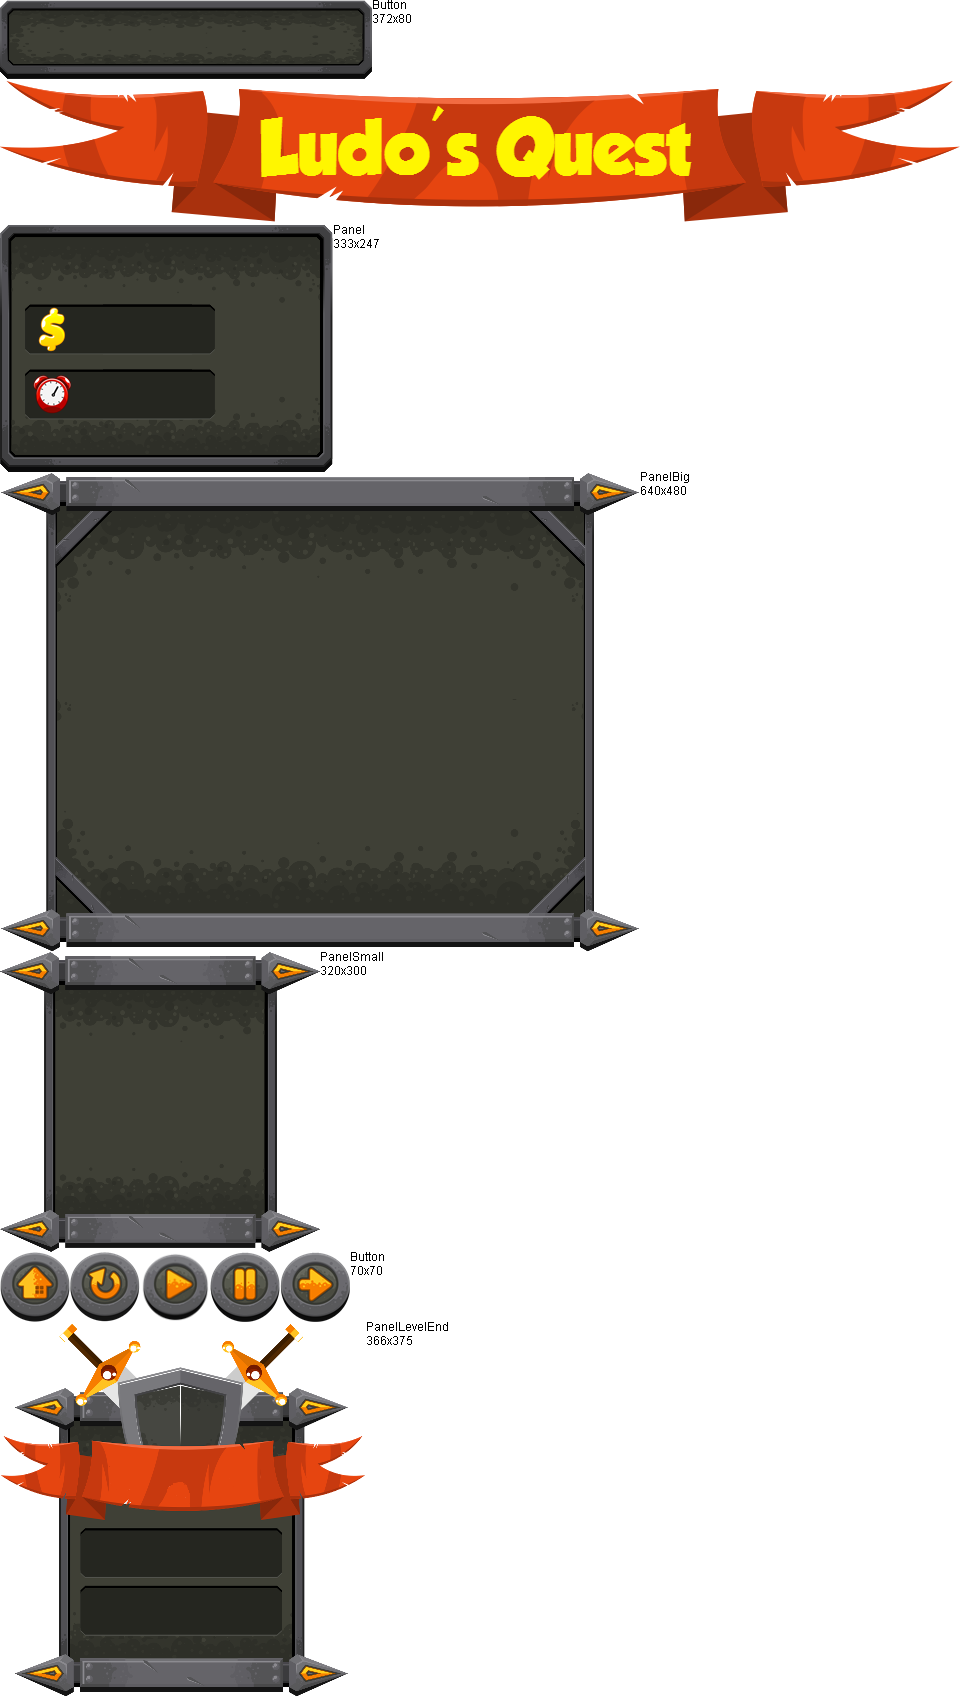
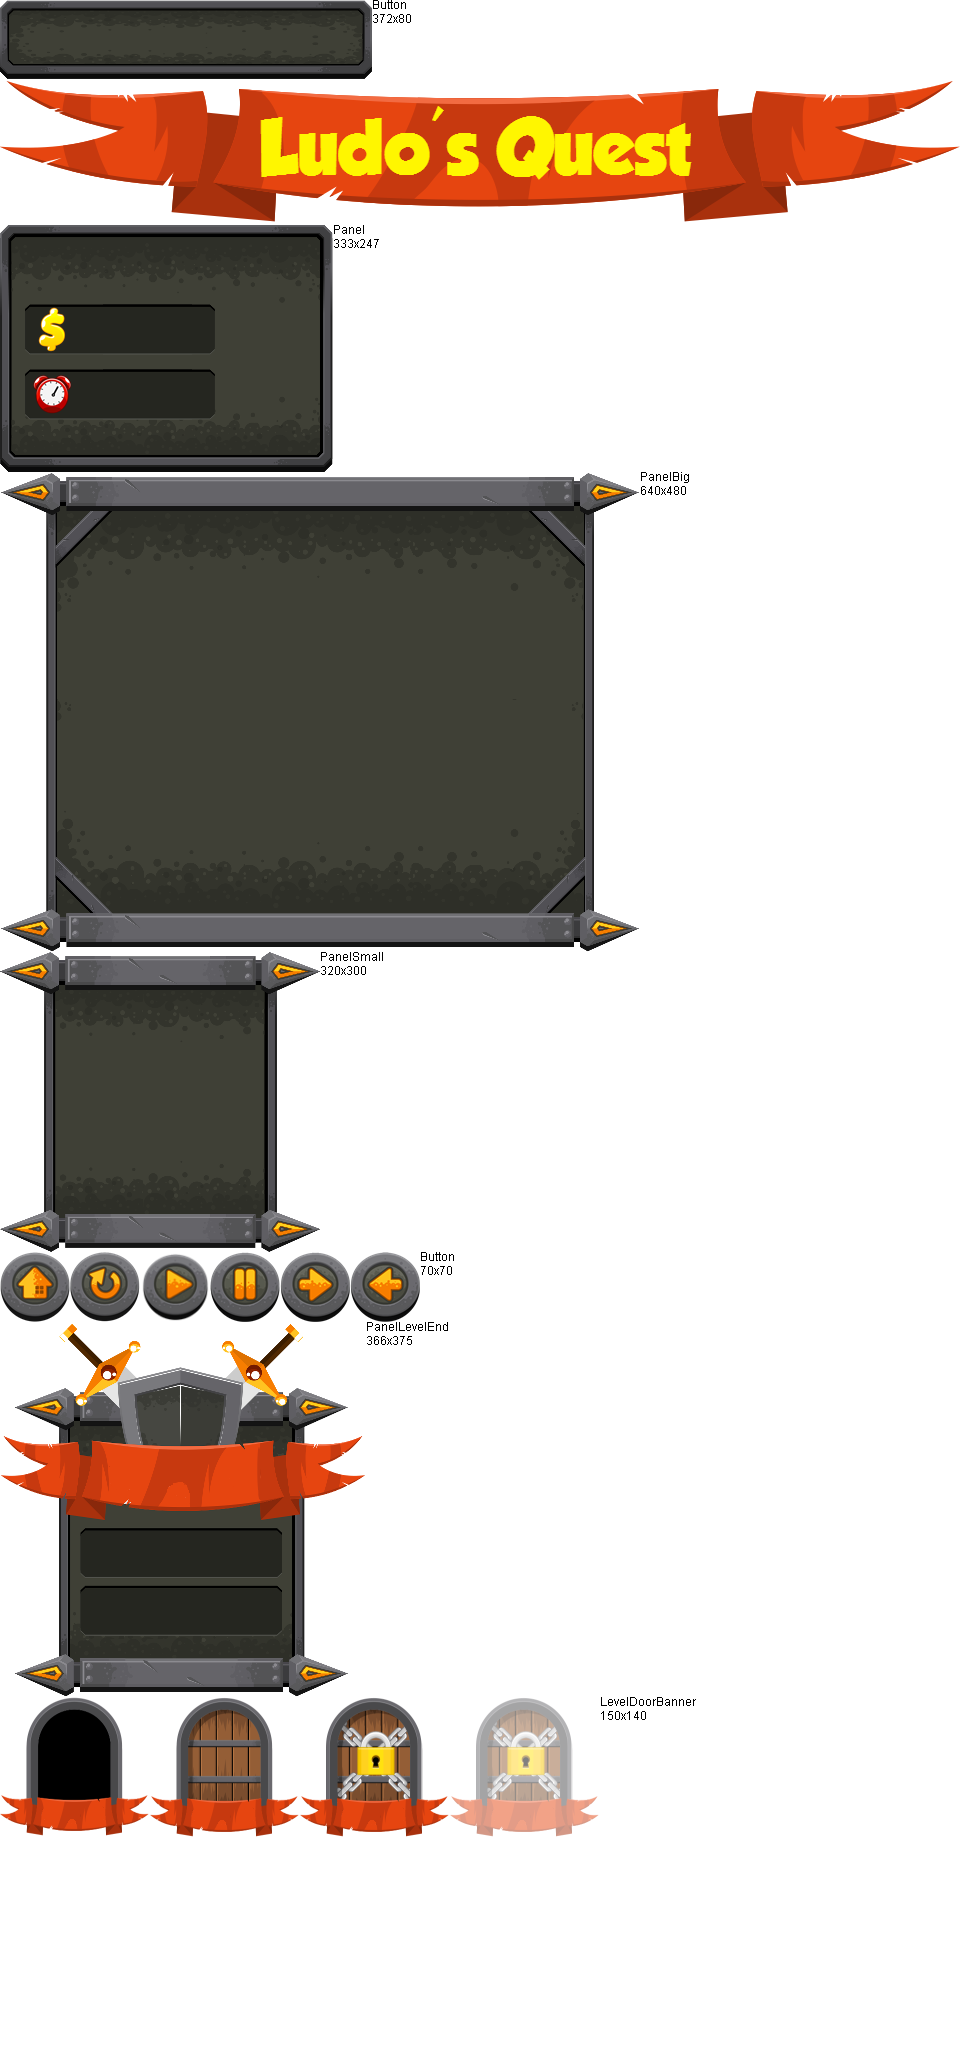
Working on level screen and choosing levels. Need to leverage Backbone.Collection more...

Changed region(s): [[0.0, 0.4053, 0.6562, 0.9976], [0.0, 0.0, 1.0, 0.3429], [0.625, 0.8106, 0.6562, 0.8418]]

diff --git a/www/js/src/gui/title-screen.js b/www/js/src/gui/title-screen.js
@@ -108,25 +108,31 @@
       });
 
       this.loading = new Backbone.LabelButton({
+        y: 720,
         text: "Loading...",
-        easingTime: 300,
-        opacity: 0
+        easingTime: 300
       });
 
       this.newGame = new Backbone.PullOutButton({
-        y: 300,
+        y: 260,
         text: "New Game "
       });
-      this.newGame.on("tap", _.partial(this.play, "newGame"), this);
+      this.newGame.on("tap", _.partial(this.action, "newGame"), this);
 
       this.continueGame = new Backbone.PullOutButton({
-        y: 420,
+        y: 380,
         text: "Continue "
       });
-      this.continueGame.on("tap", _.partial(this.play, "continueGame"), this);
+      this.continueGame.on("tap", _.partial(this.action, "continueGame"), this);
+
+      this.levelButton = new Backbone.PullOutButton({
+        y: 500,
+        text: "Levels "
+      });
+      this.levelButton.on("tap", _.partial(this.action, "showLevelScreen"), this);
 
       this.showCredits = new Backbone.PullOutButton({
-        y: 540,
+        y: 620,
         text: "Credits "
       });
 
@@ -143,15 +149,17 @@
       // Hack to avoid FOUT
       this.touchStart.set("opacity", 1);
       this.newGame.textMetrics = undefined;
-      this.showCredits.textMetrics = undefined;
       this.continueGame.textMetrics = undefined;
+      this.levelButton.textMetrics = undefined;
+      this.showCredits.textMetrics = undefined;
     },
     onAttach: function() {
       Backbone.Scene.prototype.onAttach.apply(this, arguments);
       this.stopListening(this.engine);
       this.set("opacity", 1);
+      this.loading.set("x", 720);
 
-      this.engine.add([this.banner, this.touchStart, this.loading, this.newGame, this.showCredits, this.credits, this.continueGame, this.savedGame]);
+      this.engine.add([this.banner, this.touchStart, this.loading, this.newGame, this.levelButton, this.showCredits, this.credits, this.continueGame, this.savedGame]);
 
       if (!this.ready)
         setTimeout(this.postInitialize.bind(this), 200);
@@ -160,7 +168,7 @@
     },
     onDetach: function() {
       Backbone.Scene.prototype.onDetach.apply(this, arguments);
-      this.engine.remove([this.banner, this.touchStart, this.loading, this.newGame, this.showCredits, this.credits, this.savedGame, this.continueGame]);
+      this.engine.remove([this.banner, this.touchStart, this.loading, this.newGame, this.levelButton, this.showCredits, this.credits, this.savedGame, this.continueGame]);
     },
     onTouchStart: function(e) {
       // Animate some stuff
@@ -172,15 +180,16 @@
     },
     showButtons: function() {
       this.newGame.moveTo(-this.newGame.get("width") + this.newGame.textMetrics.width + this.newGame.get("textPadding")*2, this.newGame.get("y"));
+      this.levelButton.moveTo(-this.levelButton.get("width") + this.levelButton.textMetrics.width + this.levelButton.get("textPadding")*2, this.levelButton.get("y"));
       this.showCredits.moveTo(-this.showCredits.get("width") + this.showCredits.textMetrics.width + this.showCredits.get("textPadding")*2, this.showCredits.get("y"));
       if (!_.isEmpty(this.saved)) {
         this.continueGame.moveTo(-this.continueGame.get("width") + this.continueGame.textMetrics.width + this.continueGame.get("textPadding")*2, this.continueGame.get("y"));
         this.savedGame.moveTo(720, this.savedGame.get("y"));
       }
-      this.loading.set("opacity", 0);
     },
     hideButtons: function() {
       this.newGame.moveTo(-this.newGame.get("width"), this.newGame.get("y"));
+      this.levelButton.moveTo(-this.levelButton.get("width"), this.levelButton.get("y"));
       this.showCredits.moveTo(-this.showCredits.get("width"), this.showCredits.get("y"));
       this.continueGame.moveTo(-this.continueGame.get("width"), this.continueGame.get("y"));
       this.savedGame.moveTo(960, this.savedGame.get("y"));
@@ -197,19 +206,35 @@
       this.panel = undefined;
       this.showButtons();
     },
-    play: function(event) {
-      var delay = 400;
-      if (event == "newGame") {
-        this.loading.fadeIn();
-        delay = 600;
-      }
+    update: function(dt) {
+      if (!Backbone.Scene.prototype.update.apply(this, arguments)) return false;
+
+      var attrs = {opacity: this.get("opacity")},
+          options = {silent: true};
+
+      this.banner.set(attrs, options);
+      this.touchStart.set(attrs, options);
+      this.loading.set(attrs, options);
+      this.newGame.set(attrs, options);
+      this.continueGame.set(attrs, options);
+      this.showCredits.set(attrs, options);
+      this.credits.set(attrs, options);
+      this.levelButton.set(attrs, options);
+      this.savedGame.set(attrs, options);
+
+      return true;
+    },
+    action: function(event) {
+      if (event == "newGame")
+        this.loading.set("x", 400);
 
       var gui = this;
       this.hideButtons();
       setTimeout(function() {
-        gui.engine.trigger(event);
-        gui.loading.set("opacity", 0);
-      }, delay);
+        gui.fadeOut(function() {
+          gui.engine.trigger(event);
+        });
+      }, 400);
     }
 	});
 

diff --git a/www/js/src/gui/level-screen.js b/www/js/src/gui/level-screen.js
@@ -1,0 +1,134 @@
+(function() {
+
+  Backbone.LevelViewModel = Backbone.Button.extend({
+    defaults: _.extend({}, Backbone.Button.prototype.defaults, {
+      level: 1,
+      name: "",
+      state: "locked", // locked, unlocked, played, future
+      width: 150, height: 140,
+      backgroundColor: "transparent",
+      img: "#gui", imgX: 0, imgY: 1696, imgWidth: 150, imgHeight: 140, imgMargin: 0
+    }),
+    initialize: function(attributes, options) {
+      Backbone.Button.prototype.initialize.apply(this, arguments);
+      this.imgForState();
+      this.on("change:state", this.imgForState);
+    },
+    imgForState: function() {
+      var imgX = this.attributes.imgX;
+      switch (this.attributes.state) {
+        case "locked":
+          imgX = 300;
+          break;
+        case "unlocked":
+          imgX = 150;
+          break;
+        case "future":
+          imgX = 450;
+          break;
+        default:
+          imgX = 0;
+          break;
+      }
+      this.set("imgX", imgX);
+      return this;
+    }
+  });
+
+  Backbone.LevelViewCollection = Backbone.Collection.extend({
+    model: Backbone.LevelViewModel
+  });
+
+  Backbone.LevelScreenGui = Backbone.Scene.extend({
+    defaults: _.extend({}, Backbone.Scene.prototype.defaults, {
+      img: "#level-screen",
+      imgWidth: 960,
+      imgHeight: 700
+    }),
+    initialize: function(attributes, options) {
+      Backbone.Scene.prototype.initialize.apply(this, arguments);
+
+      _.bindAll(this, "_calculateState");
+
+      this.backButton = new Backbone.Button({
+        x: 20, y: 600,
+        width: 70, height: 70,
+        backgroundColor: "transparent",
+        img: "#gui", imgX: 350, imgY: 1252, imgWidth: 70, imgHeight: 70, imgMargin: 0
+      });
+      this.backButton.on("tap", _.partial(this.action, "showTitleScreen"), this);
+
+      this.levels = new Backbone.LevelViewCollection();
+
+      var levelIndex = 0, level;
+      for (var y = 110; y <= 470; y += 360)
+        for (var x = 117; x < 885; x += 192) {
+          level = levelIndex < Backbone.levels.length ? Backbone.levels[levelIndex] : null;
+          this.levels.add({
+            id: levelIndex,
+            level: level ? level.name : "",
+            state: this._calculateState(levelIndex, level),
+            x: x,
+            y: y
+          });
+
+          levelIndex += 1;
+        }
+
+    },
+    onAttach: function() {
+      Backbone.Scene.prototype.onAttach.apply(this, arguments);
+      this.stopListening(this.engine);
+      this.set("opacity", 0);
+
+      this.engine.add(this.backButton);
+      this.engine.add(this.levels.models);
+      this.updateLevelStates();
+
+      this.fadeIn();
+    },
+    onDetach: function() {
+      Backbone.Scene.prototype.onDetach.apply(this, arguments);
+      this.engine.remove(this.backButton);
+      this.engine.remove(this.levels.models);
+    },
+    _calculateState: function(levelIndex, level) {
+      var state = level == null ? "future" : "locked";
+      if (_.isEmpty(this.saved)) {
+        if (levelIndex == 0) state = "unlocked";
+      } else if (!_.isEmpty(this.saved)) {
+        if (levelIndex <= this.saved.levelIndex) state = "played";
+        if (levelIndex == this.saved.levelIndex + 1) state = "unlocked";
+      }
+      return state;
+    },
+    updateLevelStates: function() {
+      var gui = this;
+      this.levels.each(function(viewModel) {
+        level = viewModel.id < Backbone.levels.length ? Backbone.levels[viewModel.id] : null;
+        viewModel.set({
+          state: gui._calculateState(viewModel.id, level)
+        });
+      });
+    },
+    update: function(dt) {
+      if (!Backbone.Scene.prototype.update.apply(this, arguments)) return false;
+
+      var attrs = {opacity: this.get("opacity")},
+          options = {silent: true};
+
+      this.backButton.set(attrs, options);
+      for (var i = 0; i < this.levels.models.length; i++)
+        this.levels.models[i].set(attrs, options);
+
+      return true;
+    },
+    action: function(event) {
+      var gui = this;
+      this.fadeOut(function() {
+        gui.engine.trigger(event);
+      });
+    }
+  });
+
+}).call(this);

diff --git a/www/js/src/main.js b/www/js/src/main.js
@@ -17,6 +17,7 @@ $(window).on("load", function() {
 
       // Game state
       this.saved = {};
+      //this.saved = {"date":1424585169087,"health":8,"coins":3,"level":2,"levelName":"The forest","levelIndex":1,"time":46298};
 
       // Create our sprite sheets and attach them to existing sprite classes
       this.spriteSheets = new Backbone.SpriteSheetCollection(Backbone.spriteSheetDefinitions).attachToSpriteClasses();
@@ -97,9 +98,16 @@ $(window).on("load", function() {
         levelInOutScene: this.levelInOutScene
       });
 
-      // Our title screen
+      // Our screens
       this.titleScreenGui = new Backbone.TitleScreenGui({
         id: "titleScreenGui",
+      }, {
+        saved: this.saved,
+        world: this.world
+      });
+
+      this.levelScreenGui = new Backbone.LevelScreenGui({
+        id: "levelScreenGui",
       }, {
         saved: this.saved,
         world: this.world
@@ -123,6 +131,7 @@ $(window).on("load", function() {
 
       // Events
       this.listenTo(this.engine, "showTitleScreen", this.showTitleScreen);
+      this.listenTo(this.engine, "showLevelScreen", this.showLevelScreen);
       this.listenTo(this.engine, "newGame", _.partial(this.play, true));
       this.listenTo(this.engine, "continueGame", this.play);
       this.listenTo(this.engine, "nextLevel", this.nextLevel);
@@ -136,7 +145,7 @@ $(window).on("load", function() {
       this.engine.reset();
       if (this.debugPanel) this.debugPanel.clear();
 
-      if (newGame || !this.saved) {
+      if (newGame || _.isEmpty(this.saved)) {
         this.world.set(Backbone.levels[0]);
         this.world.spawnSprites();
       } else {
@@ -179,6 +188,20 @@ $(window).on("load", function() {
       if (this.debugPanel) this.debugPanel.clear();
 
       this.engine.add(this.titleScreenGui);
+      if (this.debugPanel) this.engine.add(this.debugPanel);
+      this.engine.set("clearOnDraw", true);
+      this.engine.start();
+
+      return this;
+    },
+    showLevelScreen: function() {
+      this.engine.stop();
+      this.world.set("state", "pause");
+
+      this.engine.reset();
+      if (this.debugPanel) this.debugPanel.clear();
+
+      this.engine.add(this.levelScreenGui);
       if (this.debugPanel) this.engine.add(this.debugPanel);
       this.engine.set("clearOnDraw", true);
       this.engine.start();

diff --git a/www/index.html b/www/index.html
@@ -40,6 +40,7 @@
         <script src="js/src/input.js" type="text/javascript"></script>
         <script src="js/src/gui/elements.js" type="text/javascript"></script>
         <script src="js/src/gui/in-game.js" type="text/javascript"></script>
+        <script src="js/src/gui/level-screen.js" type="text/javascript"></script>
         <script src="js/src/gui/title-screen.js" type="text/javascript"></script>
         <script src="js/src/main.js" type="text/javascript"></script>
 
@@ -66,6 +67,7 @@
     <body>
         <img id="title-screen" src="img/title-screen.jpg" style="display:none;" />
         <img id="gui" src="img/gui.png" style="display:none;" />
+        <img id="level-screen" src="img/level-screen.png" style="display:none;" />
         <img id="artifacts" src="img/artifacts.png" style="display:none;" />
         <img id="hero1" src="img/hero1.png" style="display:none;" />
         <img id="enemies" src="img/enemies.png" style="display:none;" />
